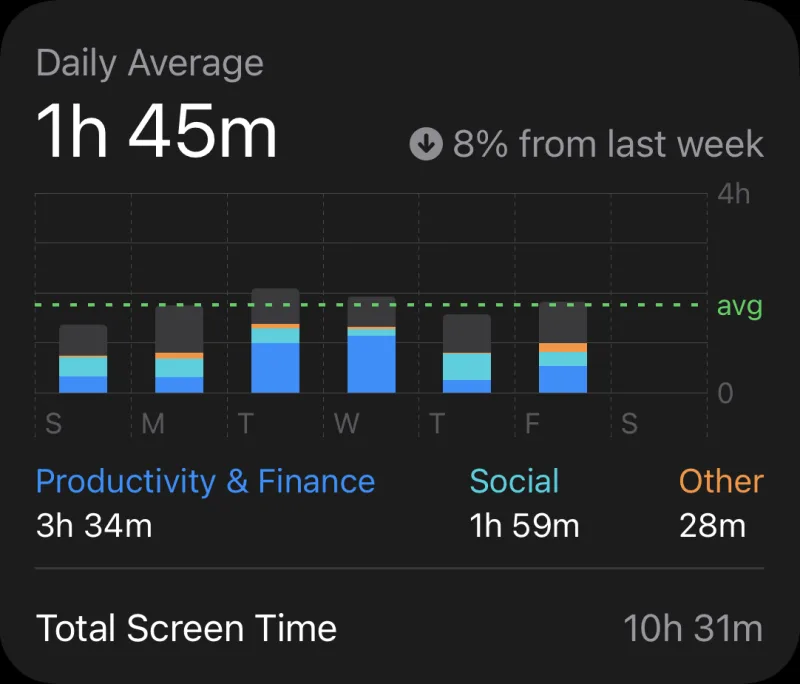
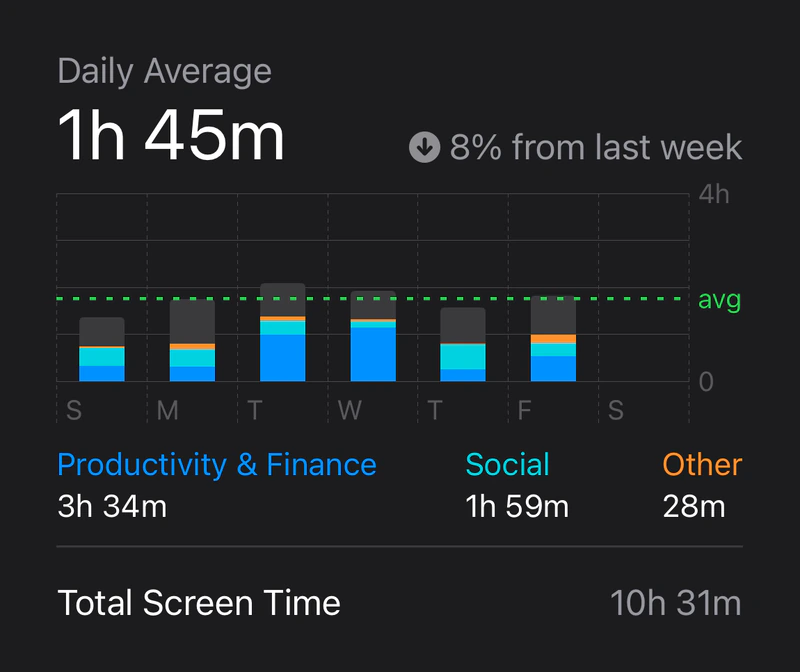
fix(web): the proof screenshots have room around them
Both are made again from the iPhone's own screenshots: what is on the card,
with 7 percent of room in the card's colour (#1c1c1e) at each side, at one
size (800 x 672) and one scale. The frame no longer zooms into them.
scripts/pad-proof-shots.sh repeats it.

diff --git a/apps/web/src/components/screen-shots.tsx b/apps/web/src/components/screen-shots.tsx
@@ -9,6 +9,12 @@ import { create, props } from '@stylexjs/stylex';
 export type Shot = {
   alt: string;
   height: number;
+  /**
+   * The picture is what is on the card, with room around it in the card's own
+   * colour right to its edges (`scripts/pad-proof-shots.sh`), so the frame
+   * shows all of it.
+   */
+  padded?: boolean;
   src: string;
   width: number;
 };
@@ -53,8 +59,7 @@ const styles = create({
     },
     maxWidth,
   }),
-  // A squircle window onto the card, zoomed past the phone's own margin and
-  // corners so only the card itself shows, at the same shape for every shot.
+  // A squircle window onto the card, at the same shape for every shot.
   frame: {
     borderColor: colors.border,
     borderRadius: 32,
@@ -75,8 +80,12 @@ const styles = create({
   shot: {
     display: 'block',
     height: 'auto',
-    transform: 'scale(1.06)',
     width: '100%',
+  },
+  // A picture that still has the phone's margin and the card's corners in it
+  // is zoomed past them.
+  shotZoomed: {
+    transform: 'scale(1.06)',
   },
 });
 
@@ -104,7 +113,7 @@ export function ScreenShots({ caption, shots }: { caption?: string; shots: Reado
               loading="lazy"
               src={shot.src}
               width={shot.width}
-              {...props(styles.shot)}
+              {...props(styles.shot, shot.padded !== true && styles.shotZoomed)}
             />
           </div>
         ))}

diff --git a/apps/web/src/routes/index.tsx b/apps/web/src/routes/index.tsx
@@ -802,13 +802,15 @@ function HomePage() {
             shots={[
               {
                 alt: m.home_proof_shot_time(),
-                height: 684,
+                height: 672,
+                padded: true,
                 src: '/media/screentime-mert/mert-after-screen-time.webp',
                 width: 800,
               },
               {
                 alt: m.home_proof_shot_pickups(),
-                height: 511,
+                height: 672,
+                padded: true,
                 src: '/media/screentime-mert/mert-after-pickups.webp',
                 width: 800,
               },
